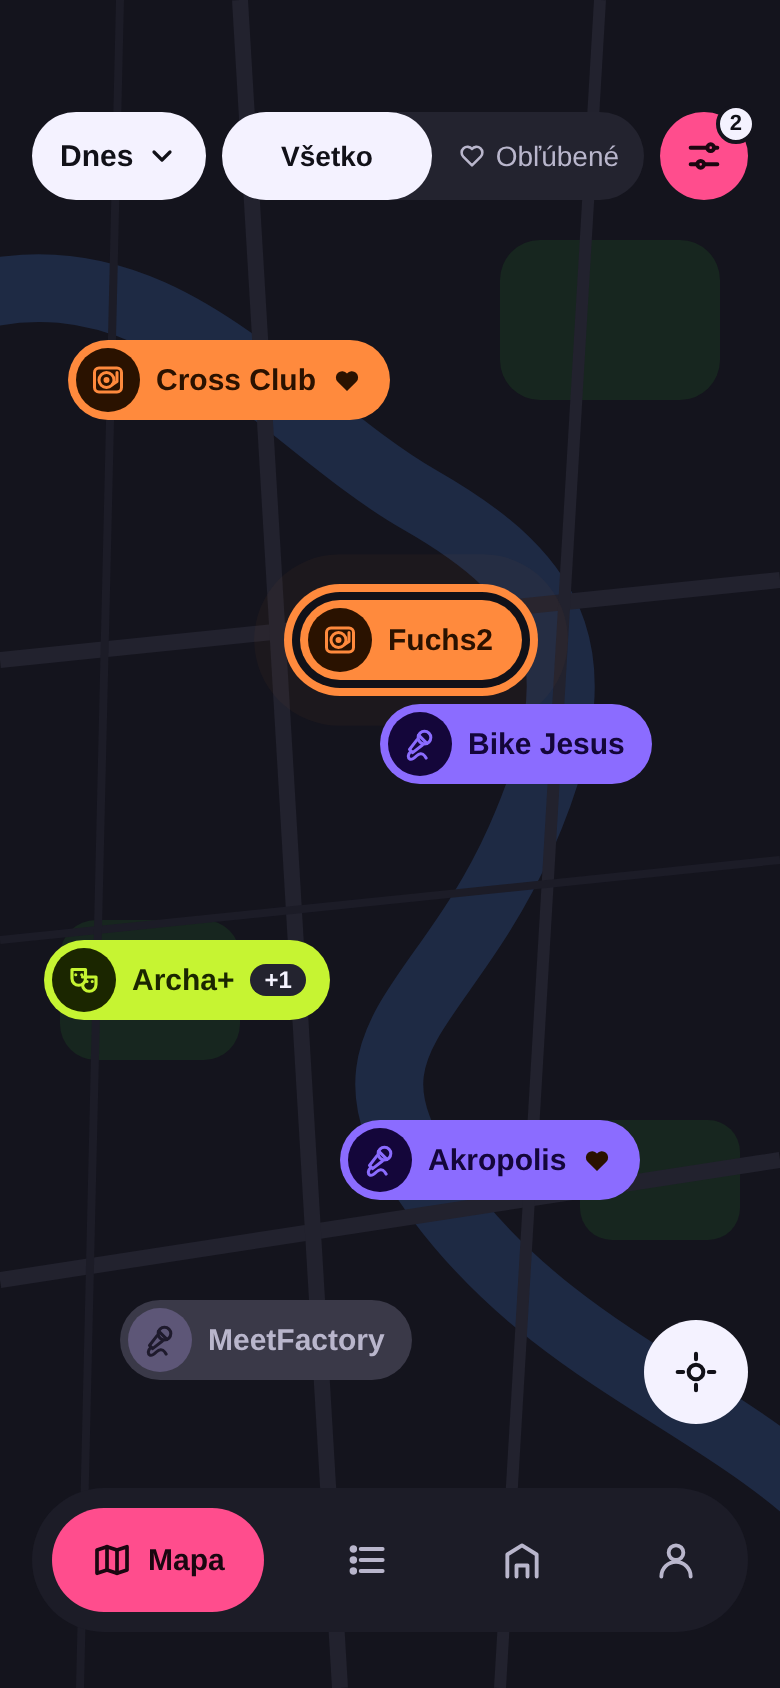
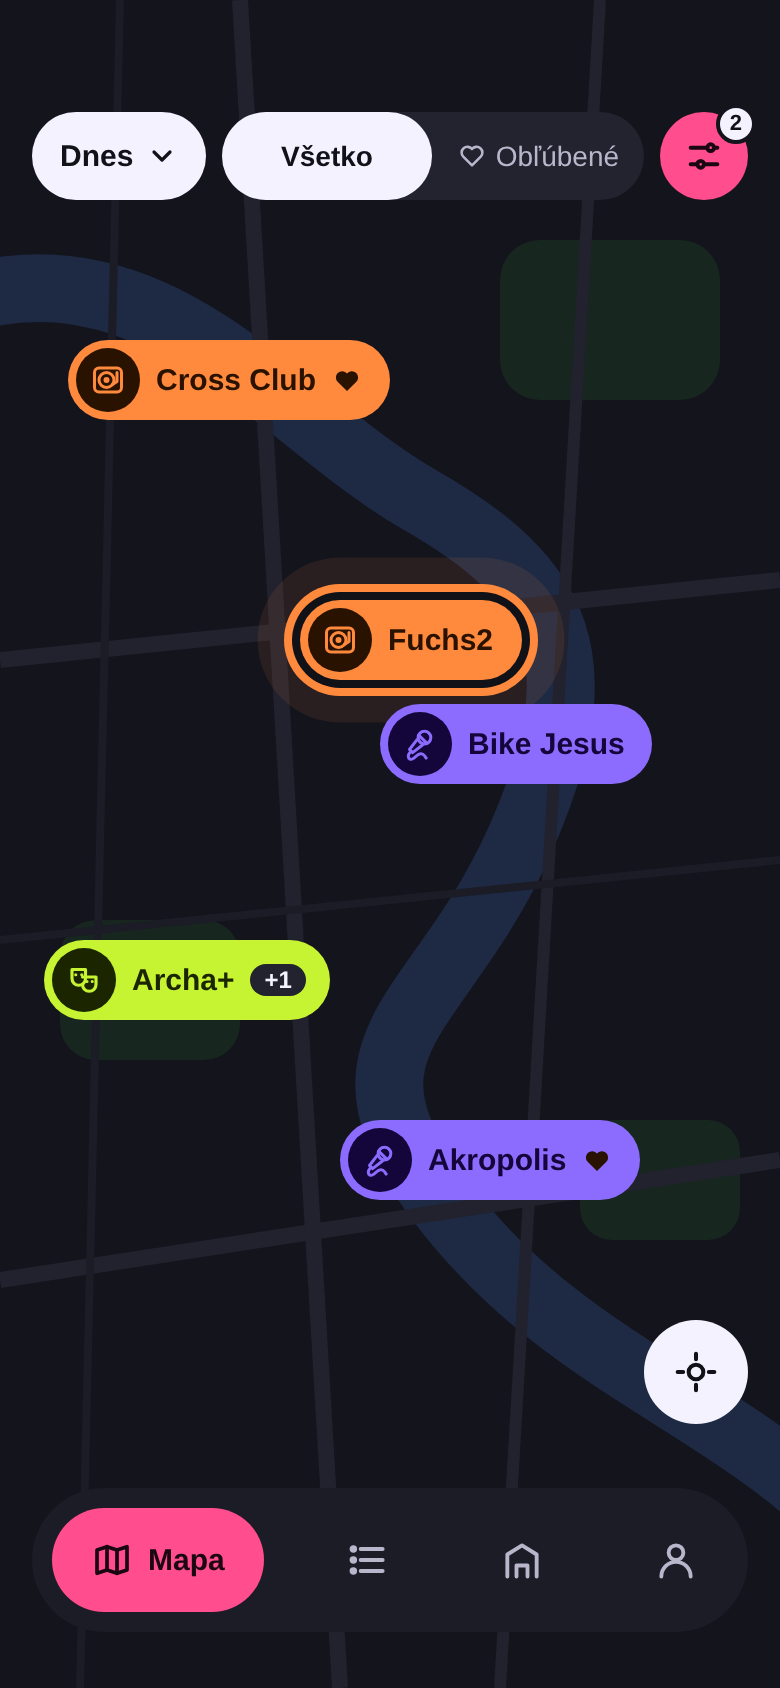
Design: hide ended events instead of grey pills
Claude-Session: https://claude.ai/code/session_01CCRZeBh7bg6SVZi1HvVUq3

Changed region(s): [[0.1538, 0.7701, 0.5231, 0.8318]]

diff --git a/docs/design/html/01-mapa.html b/docs/design/html/01-mapa.html
@@ -71,11 +71,6 @@ a{color:#FF8A3D}a:hover{color:#FFA366}
 <svg width="15" height="15" viewBox="0 0 24 24" fill="#2A1200" aria-hidden="true"><path d="M19.5 12.6L12 20l-7.5-7.4A5 5 0 1 1 12 6a5 5 0 1 1 7.5 6.6z"></path></svg>
 </div>
 
-<div style="position: absolute; top: 650px; left: 60px; display: flex; align-items: center; gap: 8px; height: 40px; padding: 0 14px 0 4px; border-radius: 20px; background: #3A3948; color: #B9B6CC; font-size: 15px; font-weight: 600">
-<span style="width: 32px; height: 32px; border-radius: 16px; background: #5D5677; display: flex; align-items: center; justify-content: center">
-<svg width="18" height="18" viewBox="0 0 24 24" fill="none" stroke="#1E1A2C" stroke-width="2" stroke-linecap="round" stroke-linejoin="round" aria-hidden="true"><g transform="translate(12 12) scale(1.057) translate(-14.12 -11.09)" stroke-width="1.89"><g transform="rotate(45 12 12)"><circle cx="12" cy="5" r="4"></circle><path d="M8.3 6.5h7.4"></path><path d="M9.6 9.2L10.6 17h2.8l1-7.8"></path></g><path d="M8.5 15.5C6.6 17.4 6.2 19.6 7.6 20.5c1.4.9 2.9-.5 4.4-2 1.5-1.5 3.6-2 5 0l1 1.5"></path></g></svg>
-</span>MeetFactory
-</div>
 
 <button style="position: absolute; right: 16px; bottom: 132px; width: 52px; height: 52px; border-radius: 26px; border: 0; background: #F4F2FF; color: #111118; display: flex; align-items: center; justify-content: center" aria-label="Moja poloha">
 <svg width="22" height="22" viewBox="0 0 24 24" fill="none" stroke="currentColor" stroke-width="2.2" stroke-linecap="round" aria-hidden="true"><circle cx="12" cy="12" r="4"></circle><path d="M12 2v3M12 19v3M2 12h3M19 12h3"></path></svg>

diff --git a/docs/design.md b/docs/design.md
@@ -48,7 +48,7 @@ Obrysové, ťah 2 px, zaoblené konce. Koncert = ručný mikrofón, párty = kok
 - **Značka = pilulka vo farbe typu akcie:** výška 40, zaoblenie 20, vľavo tmavý kruh 32 px s ikonou typu vo farbe typu, potom názov miesta (Outfit 15/600, tmavá dvojica). **Bez času.**
   - Obľúbené miesto: za názvom malé **vyplnené srdiečko** v tmavej farbe dvojice.
   - Viac akcií v ten deň: za názvom odznak `+1`, `+2` (pozadie `#23232F`, text `#F4F2FF`).
-  - Akcia, ktorá dnes už skončila: pilulka sivá (`#3A3948`, kruh `#5D5677`, text `#B9B6CC`) (pozri MeetFactory na snímke).
+  - **Akcia, ktorá už skončila, sa na mape neukazuje** (Matej 2026-11-09: sivé pilulky nemajú pre používateľa hodnotu). Skončená = má `end_time` a ten už uplynul. Ak koniec nepoznáme, akcia ostáva na mape do prepnutia dňa o 5:00 (nehádame, kedy skončila).
   - **Práve prebiehajúca akcia:** okolo pilulky prstenec vo farbe typu s tmavou medzerou (`box-shadow: 0 0 0 4px #111118, 0 0 0 8px <farba>`) a **pulzujúca žiara** (animácia 1,6 s, presný kód v `01-mapa.html`, trieda `.live`). Bez štítku „teraz“. Pri `prefers-reduced-motion` statický prstenec.
   - **Vybraná značka** (po ťuknutí): pilulka zosvetlí na `#F4F2FF` s tmavým textom, zväčší sa (scale 1,12) a dostane tieň; ikona ostáva v kruhu farby typu (`02-mapa-panel.png`).
 - **Žiadne zhlukovanie (clustering).** Pri oddialení sa značky zmenšia na farebné body (26 px, biely okraj 3 px), názvy sa ukazujú tam, kde je miesto.
